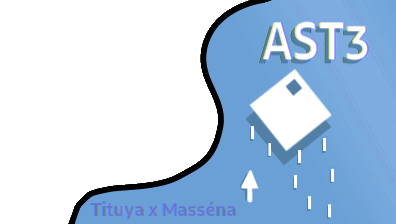
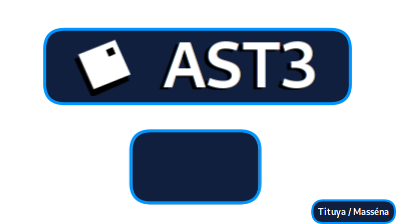
new menu. Ice not working

diff --git a/src/main.c b/src/main.c
@@ -7,6 +7,7 @@
 #include "setlevel.h"
 #include "times.h"
 #include "util.h"
+#include "friction.h"
 #include <gint/clock.h>
 #include <gint/display.h>
 #include <gint/gint.h>
@@ -17,7 +18,7 @@
 #define VACCELERATION 0.2
 #define HACCELERATION 0.4
 #define MAX_VSPD 9.0
-#define FRICTION 0.2
+#define MAX_HSPD 2.0
 
 static int callback(volatile int *frame_elapsed);
 static void end(unsigned int frame);
@@ -156,6 +157,7 @@ static void game(int *id_level, char mode, char *type)
 				           coin);
 			if (check_nbswitch)
 				draw_nbswitch(nbswitch);
+			dprint(330, 0, C_RED, "%d", (int)(hspd*100));
 			dupdate();
 		}
 		pollevent();
@@ -168,14 +170,11 @@ static void game(int *id_level, char mode, char *type)
 
 		// right and left collision
 		if (keydown_any(KEY_RIGHT, KEY_LEFT, 0)) {
-			float hbuff = 0.0;
 			char signe = (keydown(KEY_RIGHT) - keydown(KEY_LEFT));
-			if (collide(player_x, player_y - 1, level, 'i') ||
-			    collide(player_x, player_y + 1, level, 'i')) {
-				hbuff += 0.12;
-			}
-			hspd *= 1 - FRICTION;
-			hspd += signe * (HACCELERATION + hbuff);
+			float friction = apply_friction(player_x, player_y, level);
+			hspd *= 1 - friction;
+			hspd += signe * HACCELERATION;
+			
 			if (!collide_solid(player_x + round(hspd) + signe * 1,
 			                   player_y, level))
 				player_x += round(hspd);
@@ -404,14 +403,15 @@ static void game(int *id_level, char mode, char *type)
 		}
 
 		// warp
-		if (player_y >= 212)
+		if (player_y >= 210)
 			player_y = -4;
 		if (player_y < -6)
-			player_y = 212;
+			player_y = 209;
 
 		// Menu
 
 		if (keydown_any(KEY_EXIT, KEY_MENU, 0)) {
+			timer_pause(timer);
 			char menu_loop = 1;
 			char selected = 0;
 			int Y_POS = 18;
@@ -446,6 +446,7 @@ static void game(int *id_level, char mode, char *type)
 					switch (selected) {
 					case 0:
 						menu_loop = 0;
+						timer_start(timer);
 						break;
 					case 1:
 						menu_loop = 0;
@@ -467,6 +468,7 @@ static void game(int *id_level, char mode, char *type)
 		}
 	}
 	timer_stop(timer);
+	timer_wait(timer);
 	// when a level is quit
 	if (mode) {
 		if (*id_level == 0) {

diff --git a/src/menu.c b/src/menu.c
@@ -17,21 +17,29 @@ enum MenuCode start_menu(char *type)
 	char selection = 0;
 	char buffer = 1;
 	char buffer2 = 1;
-	int Y_POS = 85;
+	int Y_POS = 145;
+
+	char level[351];
+	int start_x;
+	int start_y;
+
+	set_level(rand_range(1,LEVEL_MAX), level, &start_x, &start_y, NULL,
+		          NULL, NULL, NULL);
 	while (menu_loop) {
 		clearevents();
 		dclear(C_WHITE);
+		draw_level(level);
 		dimage(0, 0, &img_menu);
 		selection += keydown(KEY_DOWN) - keydown(KEY_UP);
 		if (selection == 4)
 			selection = 0;
 		else if (selection == -1)
 			selection = 3;
-		dtext(32, Y_POS, C_BLACK, "PLAY");
-		dtext(32, Y_POS + 12, C_BLACK, "ALL MODE");
-		dtext(32, Y_POS + 24, C_BLACK, "TEST LEVEL");
-		dtext(32, Y_POS + 36, C_BLACK, "EXIT GAME");
-		dtext(16, Y_POS + (selection * 12), C_BLACK, ">");
+		dtext(160, Y_POS, C_WHITE, "PLAY");
+		dtext(160, Y_POS + 12, C_WHITE, "ALL MODE");
+		dtext(160, Y_POS + 24, C_WHITE, "TEST LEVEL");
+		dtext(160, Y_POS + 36, C_WHITE, "EXIT GAME");
+		dtext(145, Y_POS + (selection * 12), C_WHITE, ">");
 		dupdate();
 		if (keydown_any(KEY_SHIFT, KEY_EXE, 0)) {
 			if (!buffer2)
@@ -85,7 +93,6 @@ char speed_menu(int *id_level)
 		dtext(340, 214, C_BLACK, "TIMES");
 		dtext(190, 45, C_BLACK, "Time : ");
 		dprint(80, 20, C_BLACK, "Level : %d", *id_level);
-		dprint(80, 50, C_RED, "%d", gravity);
 		if (sto != 0)
 			dprint(194, 60, C_RED, "%.2j", sto);
 		else

diff --git a/src/friction.c b/src/friction.c
@@ -1,0 +1,23 @@
+#include "friction.h"
+#include "collide.h"
+
+float apply_friction(int x, int y, char level[]) {
+	float friction = 0.2;
+	mod_solid(x, y, level, &friction);
+	mod_ice(x, y, level, &friction);
+	return friction;
+}
+
+void mod_ice(int x, int y, char level[], float *friction) {
+	if (collide(x, y - 1, level, 'i') ||
+    	collide(x, y + 1, level, 'i')) {
+		*friction = 0.15;
+    }
+}
+
+void mod_solid(int x, int y, char level[], float *friction) {
+	if(collide_solid(x, y - 1, level) || 
+		collide_solid(x, y + 1, level)) {
+		*friction = 0.2;
+	}
+}

diff --git a/src/collide.c b/src/collide.c
@@ -82,8 +82,8 @@ void collide_replace(int x, int y, char level[], char collide, char replace)
 
 char collide_center(int x, int y, char level[], char block)
 {
-	if (level[(int)((x + round(PLAYER_HEIGHT / 2)) / TILE_HEIGHT) +
-	          (int)((y + round(PLAYER_HEIGHT / 2)) / TILE_HEIGHT) *
+	if (level[(int)((x + round_sup(PLAYER_HEIGHT / 2)) / TILE_HEIGHT) +
+	          (int)((y + round_sup(PLAYER_HEIGHT / 2)) / TILE_HEIGHT) *
 	              LEVEL_WIDTH] == block) {
 		return 1;
 	}

diff --git a/src/util.c b/src/util.c
@@ -1,6 +1,18 @@
 #include "util.h"
+#include <gint/std/stdlib.h>
+#include <gint/rtc.h>
 
-int round(float num)
-{
+int round(float num) {
 	return (num < 0) ? (num - 0.5) : (num + 0.5);
+}
+
+int round_sup(float num) {
+	return (int)(num+1);
+}
+
+/*maybe illegal*/
+int rand_range(int low, int high)
+{
+	srand(rtc_ticks());
+	return (rand() % (high - low)) + low;
 }

diff --git a/include/friction.h b/include/friction.h
@@ -1,0 +1,3 @@
+float apply_friction(int x, int y, char level[]);
+void mod_ice(int x, int y, char level[], float *friction);
+void mod_solid(int x, int y, char level[], float *friction);

diff --git a/include/util.h b/include/util.h
@@ -1,3 +1,5 @@
 #pragma once
 
 int round(float num);
+int round_sup(float num);
+int rand_range(int low, int high);
